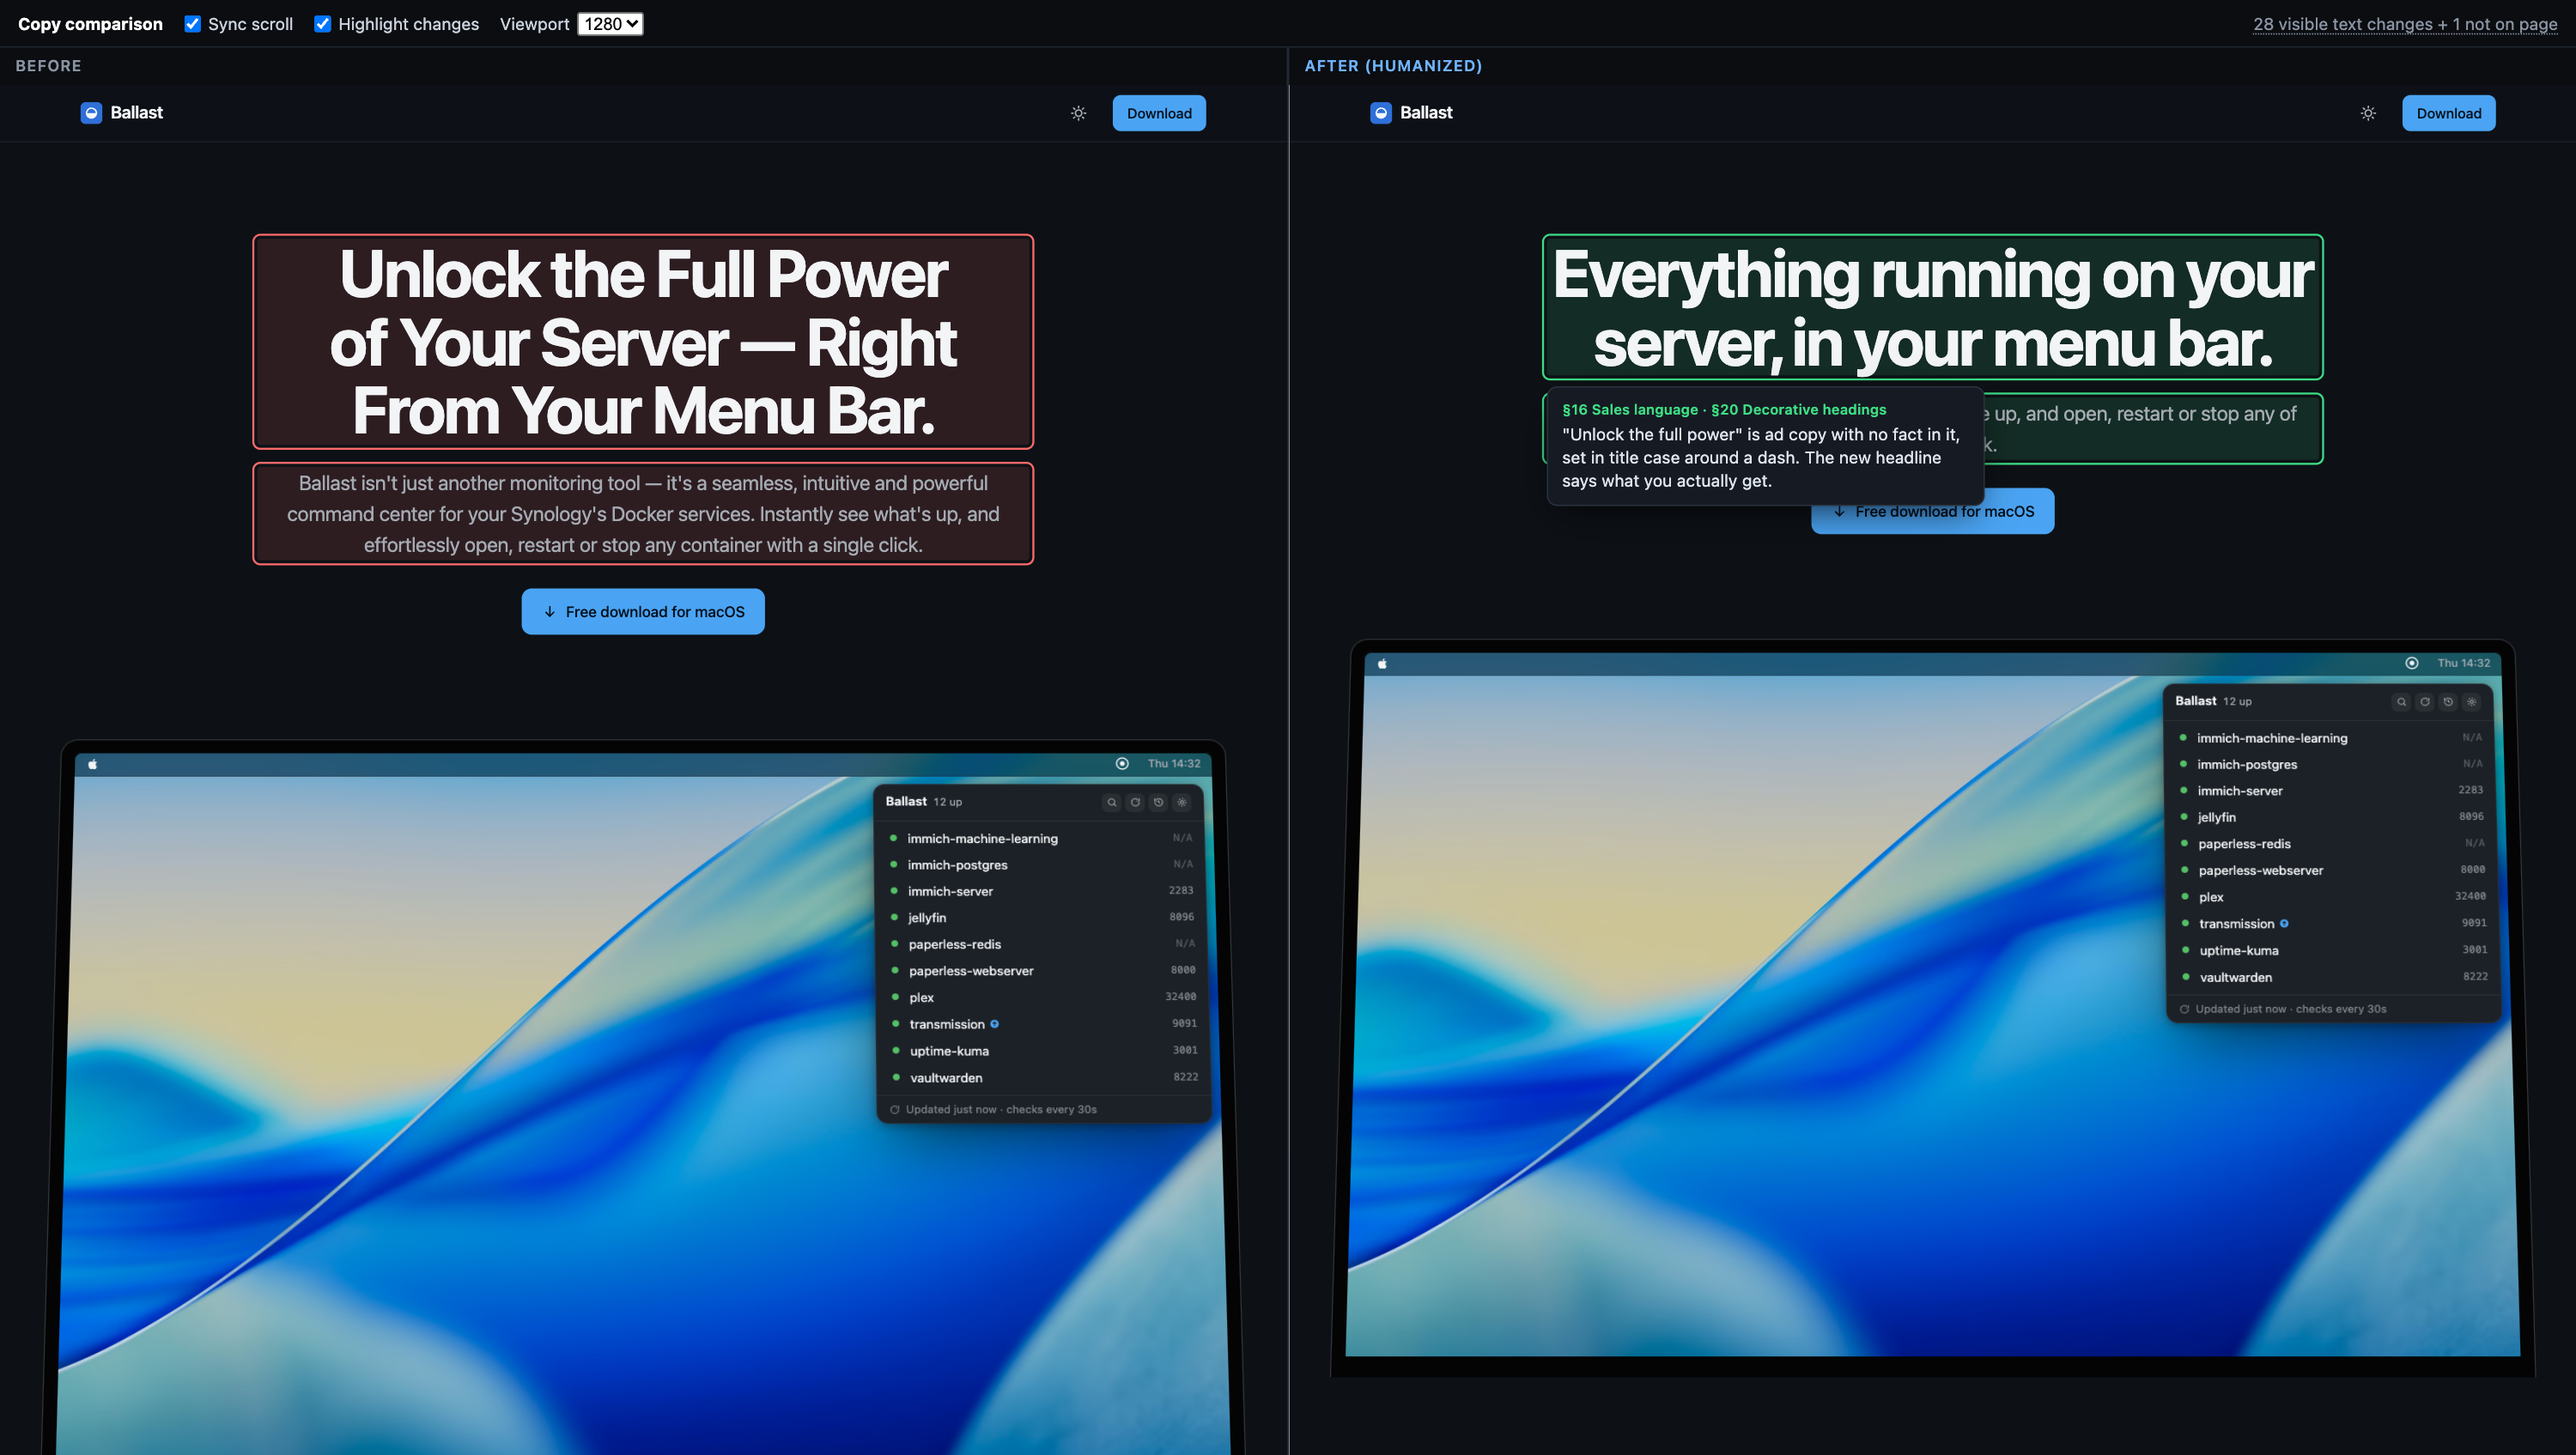
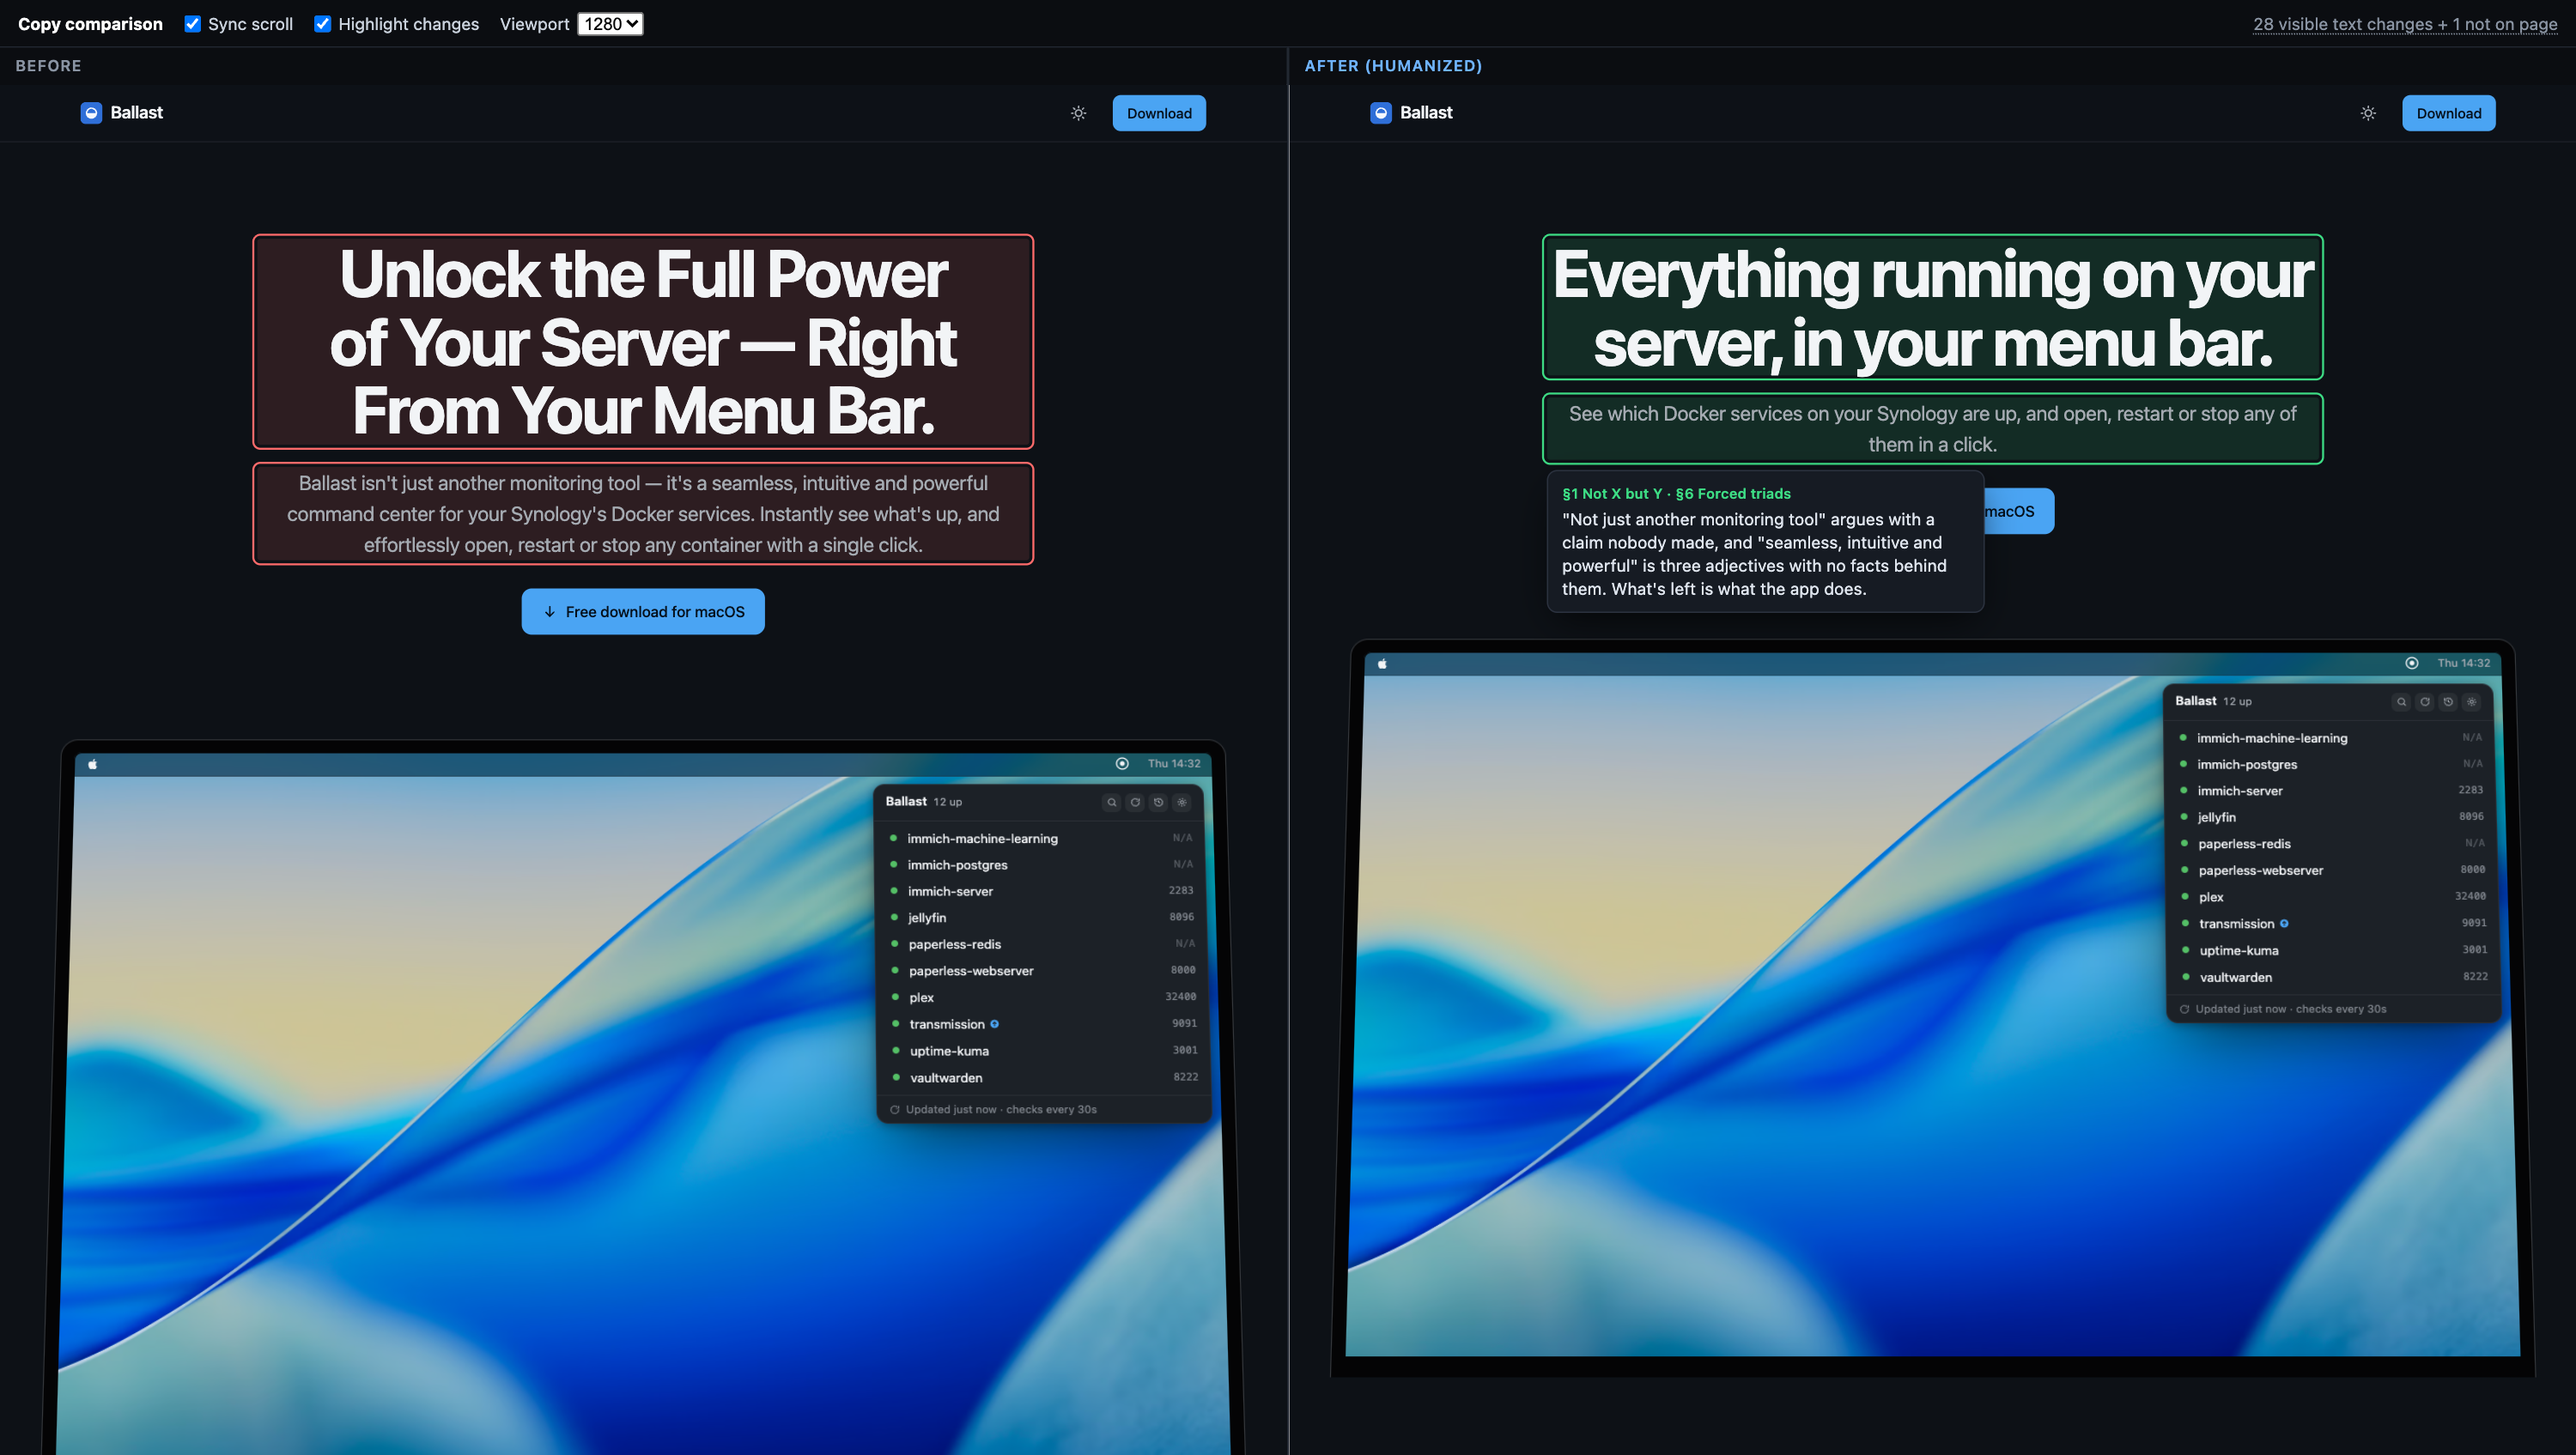
Show the hover on the subcopy in the README screenshot
The tooltip under the headline covered the subcopy. Hovering the
subcopy puts it over the download button instead, so all the copy
stays readable.

Changed region(s): [[0.589, 0.2761, 0.775, 0.4295]]

diff --git a/README.md b/README.md
@@ -2,7 +2,7 @@
 
 A skill for Claude Code that rewrites the copy on a website with [humanizer](https://github.com/blader/humanizer), then shows the old and new pages side by side so you can judge the edits in place.
 
-![An AI-written version of a landing page on the left, with its headline "Unlock the Full Power of Your Server, Right From Your Menu Bar" outlined in red, and the humanized page on the right with "Everything running on your server, in your menu bar" outlined in green. A tooltip under the new headline names the humanizer patterns, §16 Sales language and §20 Decorative headings, and explains the change.](docs/screenshot.png)
+![An AI-written version of a landing page on the left, with its headline "Unlock the Full Power of Your Server, Right From Your Menu Bar" outlined in red, and the humanized page on the right with "Everything running on your server, in your menu bar" outlined in green. A tooltip under the new subheading names the humanizer patterns, §1 Not X but Y and §6 Forced triads, and explains the change.](docs/screenshot.png)
 
 For this screenshot, the left side was written on purpose with as many AI writing patterns as possible. The right side is what the skill turned it into.
 
